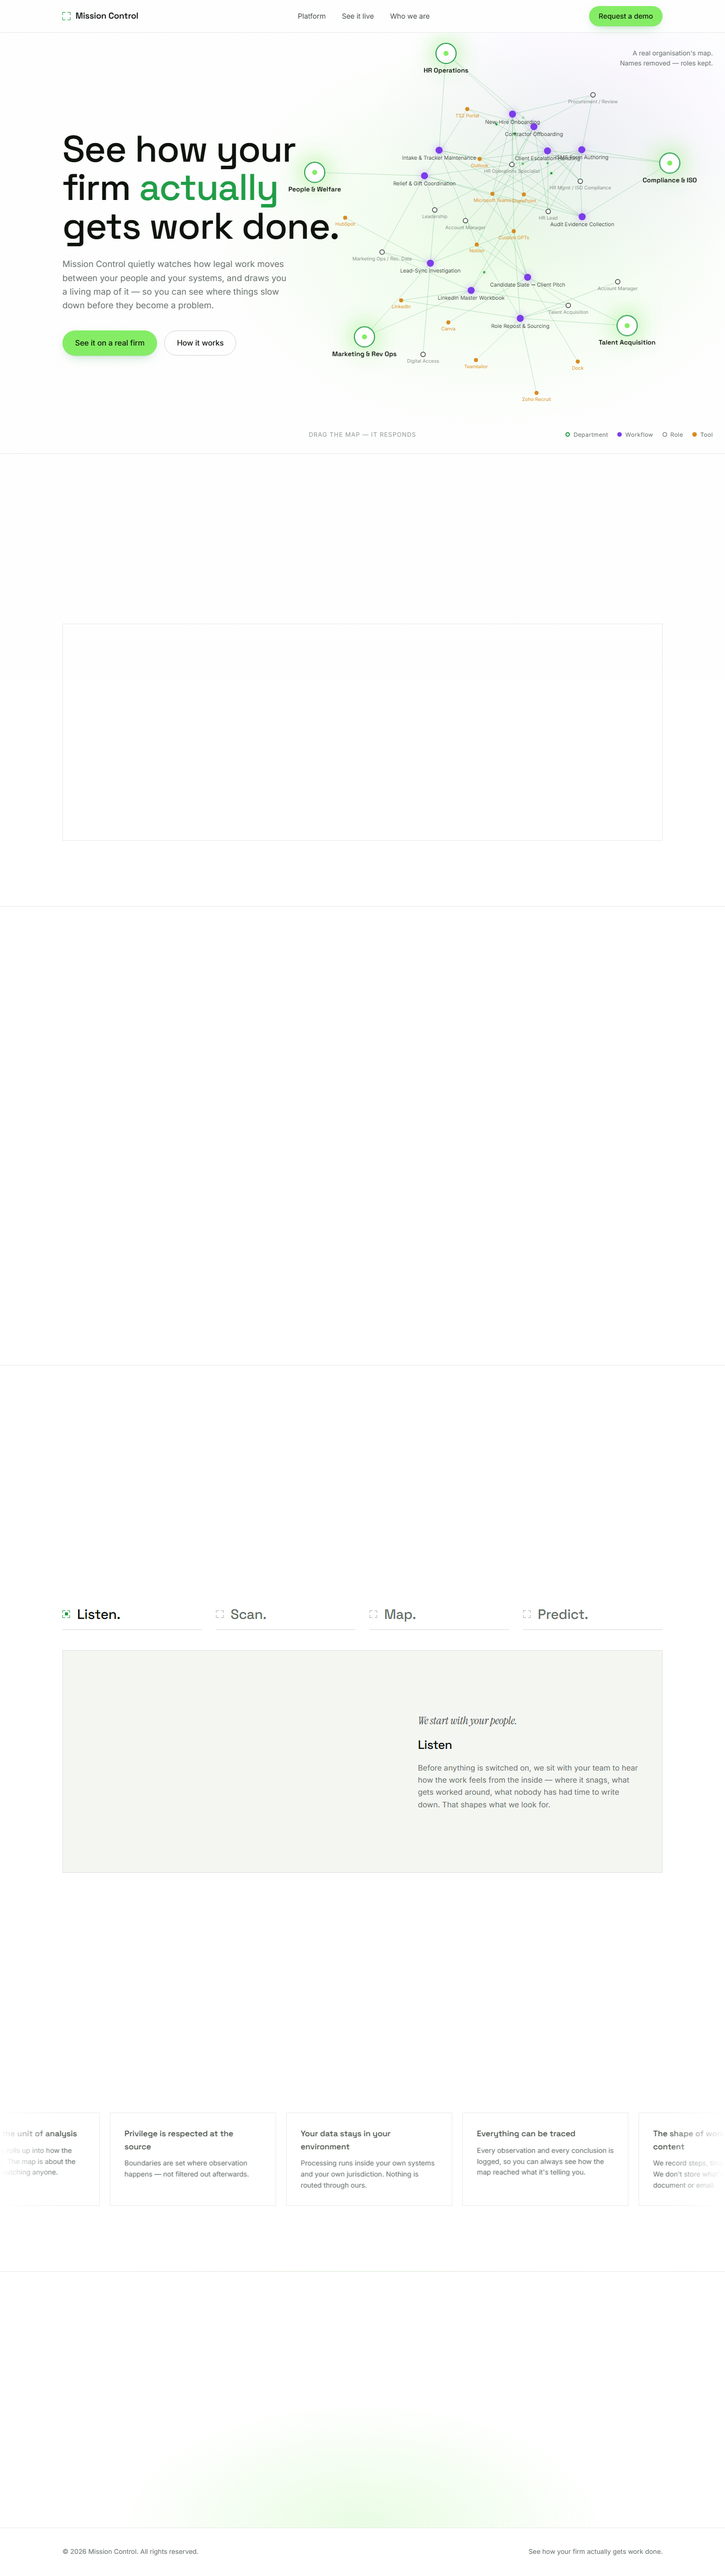
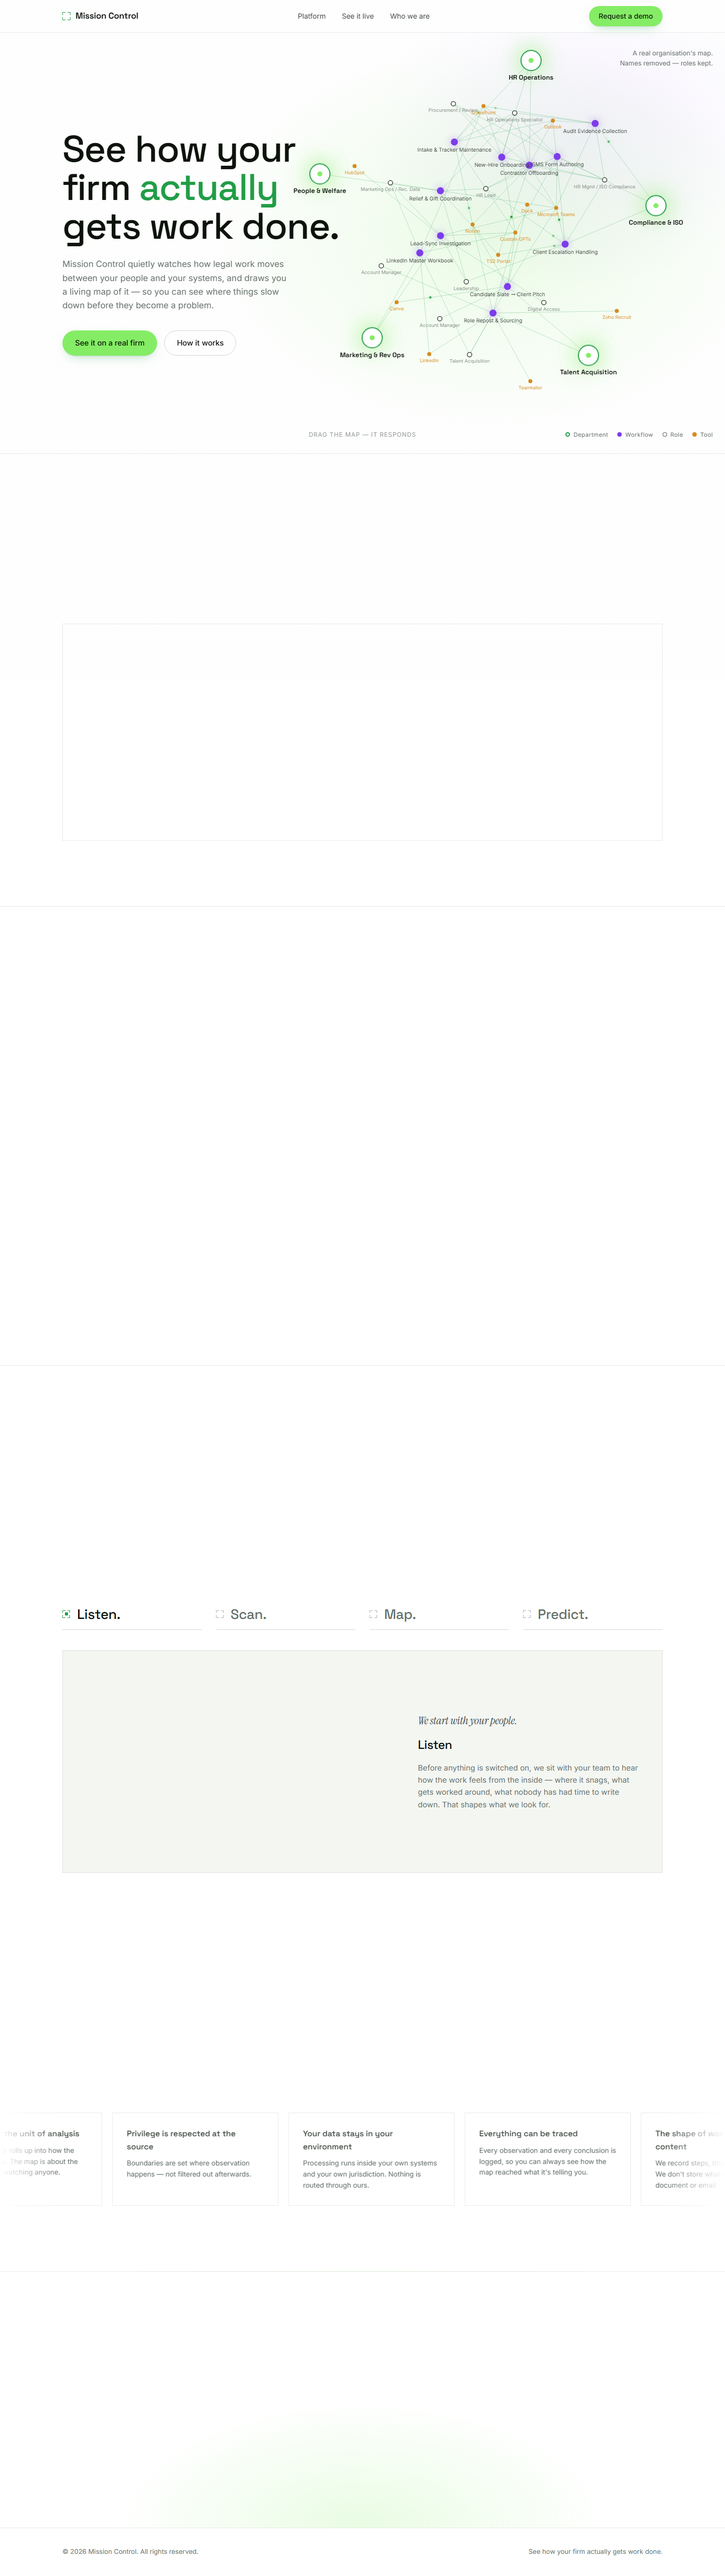
Mobile: hero map stacks below the copy; privacy fades stay off the heading

diff --git a/src/styles.css b/src/styles.css
@@ -645,11 +645,12 @@ body[data-view] main, body[data-view] footer { display: none; }
 .priv-card p { font-size: 0.85rem; }
 .priv-fade {
   position: absolute;
-  top: 0; bottom: 0;
+  bottom: 0; height: 380px; /* only over the rolling cards, never the heading */
   width: 120px;
   z-index: 2;
   pointer-events: none;
 }
+@media (max-width: 600px) { .priv-fade { width: 40px; } }
 .priv-fade.l { left: 0; background: linear-gradient(90deg, var(--bg-0), transparent); }
 .priv-fade.r { right: 0; background: linear-gradient(-90deg, var(--bg-0), transparent); }
 
@@ -766,7 +767,11 @@ footer .wrap { display: flex; justify-content: space-between; align-items: cente
 /* ---------- responsive ---------- */
 @media (max-width: 960px) {
   :root { --sec-pad: 84px; }
-  #hero .wrap { grid-template-columns: 1fr; }
+  /* narrow screens: copy first, then the map in its own box (not behind the text) */
+  #hero { flex-direction: column; align-items: stretch; justify-content: flex-start; min-height: 0; padding-top: 96px; }
+  #hero .wrap { grid-template-columns: 1fr; order: 0; }
+  #hero-graph { position: relative; inset: auto; order: 1; height: 440px; margin-top: 32px; border-top: 1px solid var(--border); border-bottom: 1px solid var(--border); }
+  #hero .hero-hint { position: static; transform: none; order: 2; margin: 14px auto 0; opacity: 0.7; }
   .hero-meta { display: none; }
   #villain .cards { grid-template-columns: 1fr; }
   .villain-card { border-right: 0; border-bottom: 1px solid var(--border); }

diff --git a/src/hero-graph.js b/src/hero-graph.js
@@ -29,13 +29,13 @@ export function initHeroGraph(svg, { reduced = false, onInteractive } = {}) {
   const layout = () => {
     W = svg.clientWidth; H = svg.clientHeight;
     const wide = W > 960;
-    cx = wide ? W * 0.68 : W * 0.5; cy = wide ? H * 0.5 : H * 0.62;
+    cx = wide ? W * 0.68 : W * 0.5; cy = wide ? H * 0.5 : H * 0.5;
     svg.setAttribute('viewBox', `0 0 ${W} ${H}`);
   };
   layout();
   if (W < 2 || H < 2) { setTimeout(() => initHeroGraph(svg, { reduced, onInteractive }), 150); return; }
 
-  const spread = Math.min(W, H) * 0.32;
+  const spread = Math.min(W, H) * (W > 960 ? 0.32 : 0.36);
   const depts = live.filter((n) => n.kind === 'dept');
   depts.forEach((d, i) => { const a = (i / depts.length) * Math.PI * 2 - Math.PI / 2; d.x = cx + Math.cos(a) * spread; d.y = cy + Math.sin(a) * spread * 0.9; });
   live.forEach((n) => {
@@ -109,8 +109,8 @@ export function initHeroGraph(svg, { reduced = false, onInteractive } = {}) {
       n.vx *= 0.85; n.vy *= 0.85;
       const sp = Math.hypot(n.vx, n.vy); if (sp > 6) { n.vx *= 6 / sp; n.vy *= 6 / sp; }
       n.x += n.vx; n.y += n.vy;
-      const m = n.r + 16;
-      n.x = Math.max(m, Math.min(W - m, n.x)); n.y = Math.max(m + 70, Math.min(H - m - 40, n.y));
+      const m = n.r + 16, top = W > 960 ? 70 : 24, bottom = W > 960 ? 40 : 24;
+      n.x = Math.max(m, Math.min(W - m, n.x)); n.y = Math.max(m + top, Math.min(H - m - bottom, n.y));
     });
   }
   function draw() {
